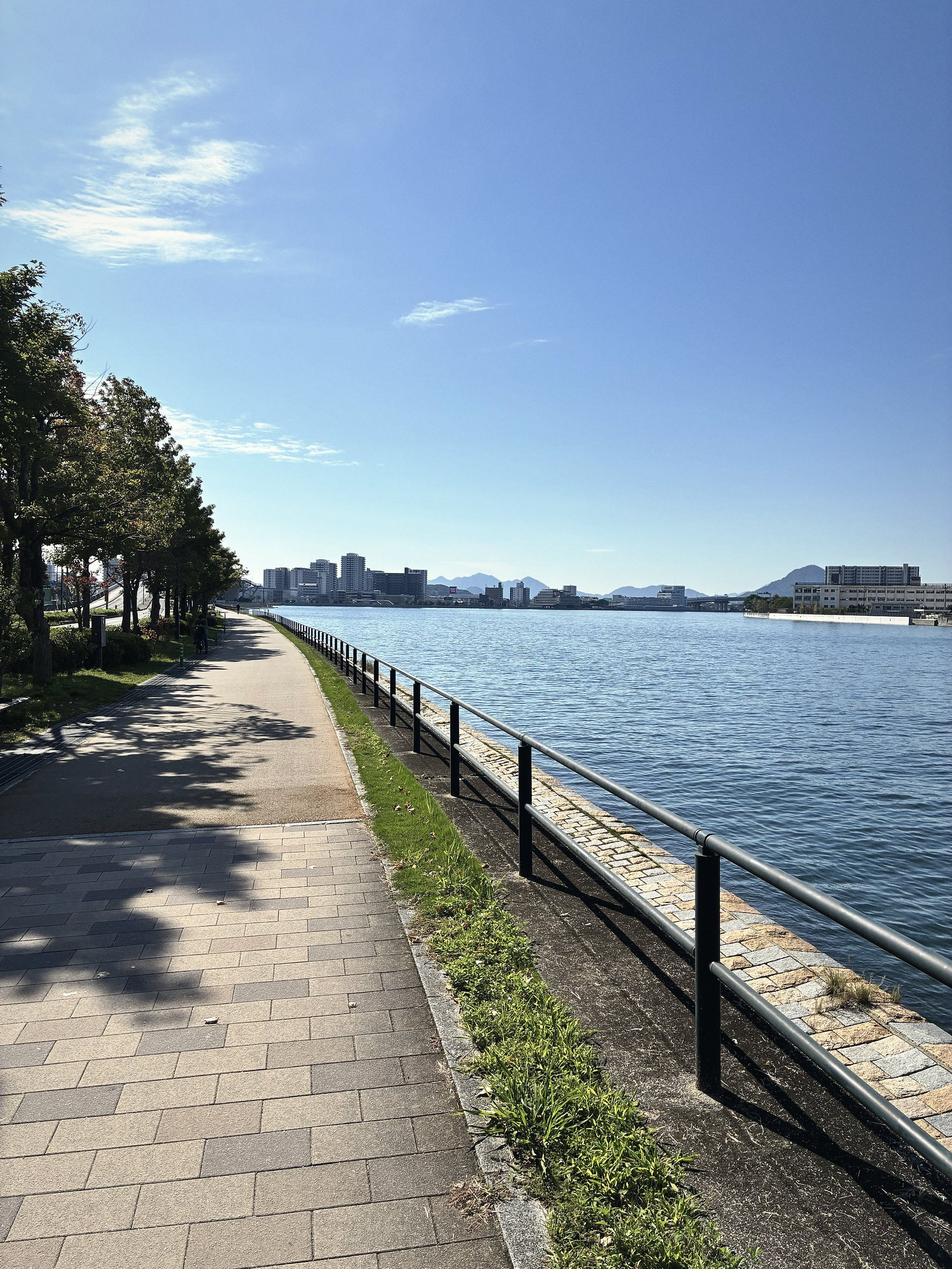
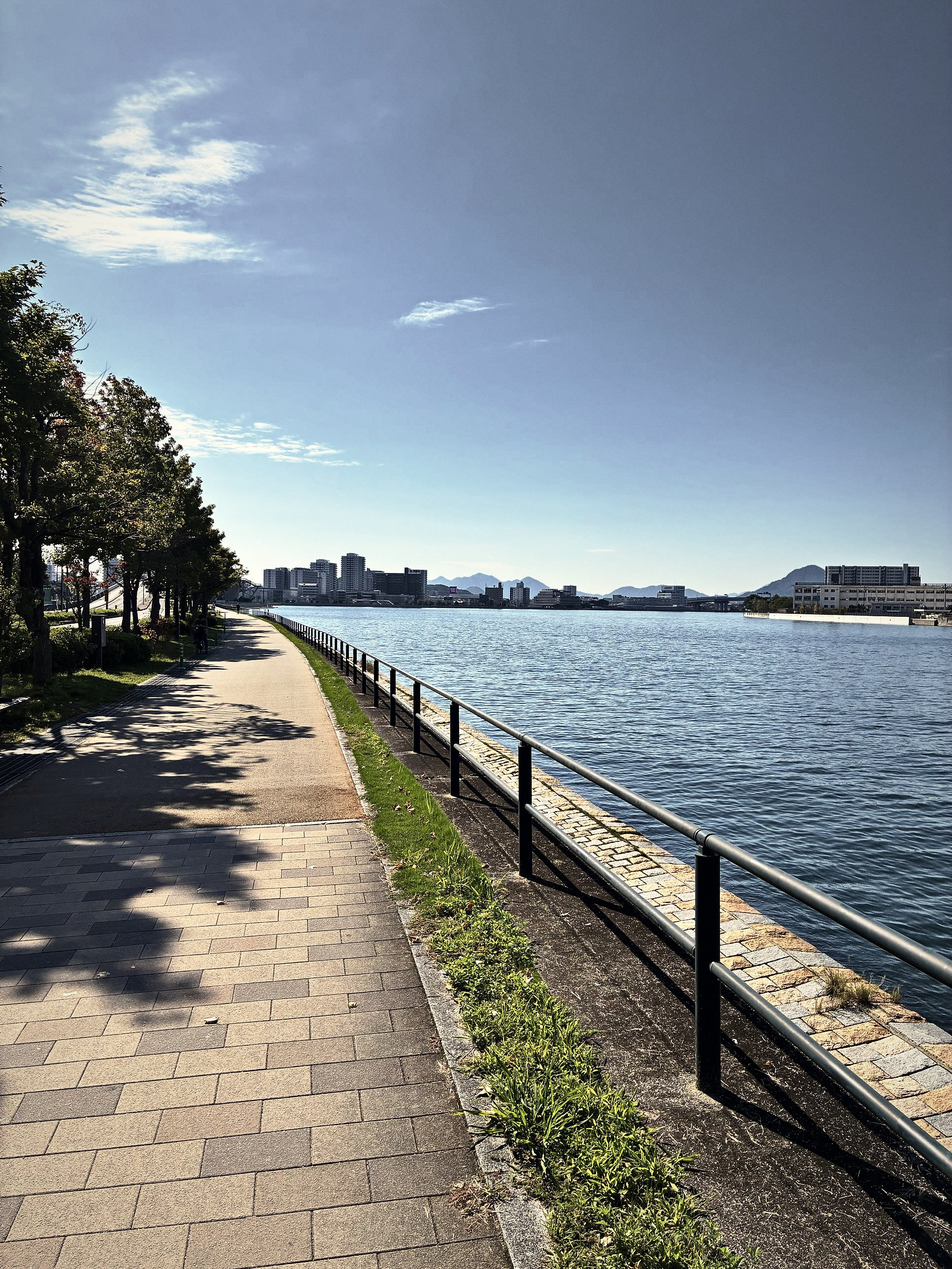
photos: pro-style per-photo grading for owner's photos; add 5 new photos
- scripts/photos/grade_pro.py: presets (day/golden/night/dusk) with sky
  tempering, highlight roll-off, clarity, split tone, vignette, grain; no metadata
- New: riverside sunlight (home feature), river evening (courses cover),
  night promenade (home interlude), Peace Memorial Museum at night,
  park at dusk (article heroes)

Claude-Session: https://claude.ai/code/session_0135SMCNB1MVxkJaGEdMERxV

diff --git a/content/photos.ts b/content/photos.ts
@@ -369,6 +369,66 @@ export const photos: Record<string, Photo> = {
     focus: "50% 65%",
     credit: { kind: "self", note: "運営者撮影" },
   },
+  "own-river-sunlight": {
+    id: "own-river-sunlight",
+    src: "/photos/own-river-sunlight.jpg",
+    width: 1932,
+    height: 2576,
+    alt: "木々のあいだから夕日が差し込み、川沿いの道に長い影が落ちている",
+    caption: "木漏れ日の川沿いの道",
+    place: "広島（運営者撮影）",
+    isHiroshima: true,
+    focus: "50% 60%",
+    credit: { kind: "self", note: "運営者撮影" },
+  },
+  "own-river-evening": {
+    id: "own-river-evening",
+    src: "/photos/own-river-evening.jpg",
+    width: 1836,
+    height: 2576,
+    alt: "夕方の光に照らされた川と、堤防の草の斜面。遠くに街並み",
+    caption: "夕方の川と堤防",
+    place: "広島（運営者撮影）",
+    isHiroshima: true,
+    focus: "50% 50%",
+    credit: { kind: "self", note: "運営者撮影" },
+  },
+  "own-park-evening": {
+    id: "own-park-evening",
+    src: "/photos/own-park-evening.jpg",
+    width: 1932,
+    height: 2576,
+    alt: "日暮れの空の下、明かりの灯る建物と木々に沿ってのびる遊歩道",
+    caption: "日暮れの遊歩道",
+    place: "広島（運営者撮影）",
+    isHiroshima: true,
+    focus: "40% 60%",
+    credit: { kind: "self", note: "運営者撮影" },
+  },
+  "own-park-night": {
+    id: "own-park-night",
+    src: "/photos/own-park-night.jpg",
+    width: 1512,
+    height: 2016,
+    alt: "夜、両側の木々がライトに照らされ、まっすぐ奥へ続く広い遊歩道",
+    caption: "夜の遊歩道",
+    place: "広島（運営者撮影）",
+    isHiroshima: true,
+    focus: "50% 60%",
+    credit: { kind: "self", note: "運営者撮影" },
+  },
+  "own-museum-night": {
+    id: "own-museum-night",
+    src: "/photos/own-museum-night.jpg",
+    width: 1512,
+    height: 2016,
+    alt: "夜空の下、柱に支えられて明かりの灯る平和記念資料館と、その前を歩く人",
+    caption: "夜の平和記念資料館",
+    place: "平和記念公園（広島市中区）",
+    isHiroshima: true,
+    focus: "55% 55%",
+    credit: { kind: "self", note: "運営者撮影" },
+  },
 };
 
 export function getPhoto(id: string | null | undefined): Photo | undefined {

diff --git a/app/page.tsx b/app/page.tsx
@@ -42,7 +42,7 @@ export default async function HomePage() {
   const [igPosts, amebloEntries] = await Promise.all([getInstagramPosts(), getAmebloEntries()]);
   const today = new Date().toISOString().slice(0, 10);
   const cover = getPhoto("own-seto-dusk");
-  const story = getPhoto("own-river-trees");
+  const story = getPhoto("own-river-sunlight");
   const city = getPhoto("own-dome-night");
   const everyday = getPhoto("own-seaside-path");
   const essay = getArticle(featuredEssay);
@@ -97,7 +97,7 @@ export default async function HomePage() {
           </p>
         </div>
         <Link href={essay ? `/articles/${essay.slug}` : "/essays"} className="m-feature" data-reveal>
-          <Photo id="own-river-trees" ratio="3/2" sizes="100vw" caption={false} className="m-feature__photo" />
+          <Photo id="own-river-sunlight" ratio="3/2" sizes="100vw" caption={false} className="m-feature__photo" />
           <span className="m-feature__text wrap">
             <span className="m-feature__title">{essay?.title ?? "走ること、生きること"}</span>
             <span className="m-feature__lede">{essay?.description}</span>
@@ -304,6 +304,12 @@ export default async function HomePage() {
             長く走るための記事 <Arrow />
           </Link>
         </p>
+      </section>
+
+      {/* ================================================ 間（写真だけ） */}
+      <section className="m-interlude" aria-label="写真：夜の遊歩道">
+        <Photo id="own-park-night" ratio="4/5" sizes="100vw" caption={false} className="m-interlude__photo" />
+        <Credit p={getPhoto("own-park-night")} className="wrap" />
       </section>
 
       {/* ================================================ 新着 */}

diff --git a/app/courses/page.tsx b/app/courses/page.tsx
@@ -14,10 +14,10 @@ export const metadata = buildMetadata({
   description:
     "太田川の川沿い、広島城、平和記念公園、宇品の海辺、牛田山、比治山。広島のランニングコースを、地図データから計算した距離と高低差、アクセスとともに紹介します。",
   path: cat.path,
-  photo: "ota-floodway-embankment",
+  photo: "own-river-evening",
 });
 
-const COVER = "ota-floodway-embankment";
+const COVER = "own-river-evening";
 
 export default function CoursesPage() {
   const list = publicCourses();

diff --git a/styles/magazine.css b/styles/magazine.css
@@ -969,3 +969,13 @@ h3,
   font-size: 0.6875rem;
   color: var(--ink-mute);
 }
+
+/* 写真だけの間（ページの呼吸） */
+.m-interlude {
+  margin-top: var(--section);
+}
+.m-interlude__photo .photo__frame {
+  aspect-ratio: auto !important;
+  height: min(92svh, 960px);
+  min-height: 480px;
+}

diff --git a/scripts/photos/grade_pro.py b/scripts/photos/grade_pro.py
@@ -1,0 +1,102 @@
+"""運営者の写真を、写真集のような仕上がりに整える（1枚ずつ調整できる版）
+
+使い方: python3 scripts/photos/grade_pro.py <入力> <出力> [プリセット] [切り抜き x0,y0,x1,y1（0〜1）]
+プリセット: day（日中の青空）/ golden（夕方・逆光）/ night（夜景）/ dusk（夜明け・曇り）
+
+ねらい
+- iPhone 特有の濃すぎる青空と、平たい明るさを抑える
+- 影に深さ、ハイライトにやわらかさ（フィルムのロールオフ）
+- 中くらいの細部を立たせる（クラリティ）
+- 色は少し控えめに、光にはわずかな温度
+- 周辺をわずかに落とし、細かな粒子
+- 位置情報などのメタデータは保存しない
+"""
+import sys
+import numpy as np
+from PIL import Image, ImageFilter, ImageOps
+
+PRESETS = {
+    #           gamma  shadow  hi_knee  sat   sky_desat sky_dark warm  clarity vignette grain
+    "day":    dict(gamma=1.13, shadow=0.00, knee=0.66, sat=0.80, sky=0.50, skyd=0.14, warm=0.030, clarity=0.32, vig=0.20, grain=0.011),
+    "golden": dict(gamma=1.08, shadow=0.01, knee=0.62, sat=0.88, sky=0.30, skyd=0.08, warm=0.055, clarity=0.30, vig=0.24, grain=0.012),
+    "night":  dict(gamma=1.08, shadow=0.018, knee=0.60, sat=0.86, sky=0.20, skyd=0.00, warm=0.020, clarity=0.24, vig=0.26, grain=0.015),
+    "dusk":   dict(gamma=1.10, shadow=0.010, knee=0.62, sat=0.84, sky=0.12, skyd=0.06, warm=0.040, clarity=0.26, vig=0.22, grain=0.013),
+}
+
+
+def rgb_to_hsv(a):
+    r, g, b = a[..., 0], a[..., 1], a[..., 2]
+    mx = a.max(-1); mn = a.min(-1); d = mx - mn + 1e-6
+    h = np.where(mx == r, (g - b) / d % 6, np.where(mx == g, (b - r) / d + 2, (r - g) / d + 4)) / 6
+    s = np.where(mx > 0, (mx - mn) / (mx + 1e-6), 0)
+    return h, s, mx
+
+
+def grade(im: Image.Image, p: dict) -> Image.Image:
+    a = np.asarray(im.convert("RGB")).astype(np.float32) / 255.0
+    h_, w_ = a.shape[:2]
+
+    # 1. ホワイトバランスをほんの少し中立へ（グレーワールドを30%だけ）
+    mean = a.reshape(-1, 3).mean(0)
+    a = a * (1 + 0.3 * (mean.mean() / (mean + 1e-6) - 1))
+
+    # 2. 濃すぎる青空を落ち着かせる（青い・明るい・上の方の画素ほど）
+    hue, sat, val = rgb_to_hsv(np.clip(a, 0, 1))
+    blue = np.clip(1 - np.abs(hue - 0.60) / 0.09, 0, 1) * np.clip((sat - 0.15) * 3, 0, 1)
+    top = np.clip(1.2 - np.linspace(0, 1, h_)[:, None] * 1.3, 0, 1)
+    m = (blue * (0.5 + 0.5 * top))[..., None]
+    lum = (0.2126 * a[..., 0] + 0.7152 * a[..., 1] + 0.0722 * a[..., 2])[..., None]
+    a = a * (1 - m) + (lum + (a - lum) * (1 - p["sky"])) * (1 - p["skyd"]) * m
+
+    # 3. トーン：中間調をやや沈め、影を少し持ち上げ、ハイライトをやわらかく
+    a = np.clip(a, 0, 1) ** p["gamma"]
+    a = p["shadow"] + a * (1 - p["shadow"])
+    k = p["knee"]
+    hi = a > k
+    a[hi] = k + (1 - k) * np.tanh((a[hi] - k) / (1 - k) * 1.2) / np.tanh(1.2)
+    a = a + 0.12 * (a - 0.5) * (1 - np.abs(2 * a - 1))  # ゆるやかなSカーブ
+
+    # 4. 色：全体を少し控えめに
+    lum = (0.2126 * a[..., 0] + 0.7152 * a[..., 1] + 0.0722 * a[..., 2])[..., None]
+    a = lum + (a - lum) * p["sat"]
+
+    # 5. 光の温度：ハイライトにわずかなぬくもり、影はわずかに冷たく
+    hiw = np.clip((lum - 0.5) * 2, 0, 1)
+    shw = np.clip(1 - lum * 2.2, 0, 1)
+    a[..., 0] += p["warm"] * hiw[..., 0] - 0.010 * shw[..., 0]
+    a[..., 1] += p["warm"] * 0.45 * hiw[..., 0]
+    a[..., 2] += -p["warm"] * 0.8 * hiw[..., 0] + 0.014 * shw[..., 0]
+    a = np.clip(a, 0, 1)
+
+    # 6. クラリティ：中くらいの細部を立たせる
+    img = Image.fromarray((a * 255).astype(np.uint8))
+    blur = np.asarray(img.filter(ImageFilter.GaussianBlur(radius=max(h_, w_) / 90))).astype(np.float32) / 255
+    a = np.clip(a + p["clarity"] * (a - blur) * (1 - np.abs(2 * lum - 1)), 0, 1)
+
+    # 7. 周辺減光
+    yy, xx = np.mgrid[0:h_, 0:w_]
+    r = np.sqrt(((xx - w_ / 2) / (w_ / 2)) ** 2 + ((yy - h_ / 2) / (h_ / 2)) ** 2)
+    a *= (1 - p["vig"] * np.clip(r - 0.5, 0, 1) ** 1.8)[..., None]
+
+    # 8. 粒子（輝度のみ）
+    g = np.random.default_rng(11).normal(0, p["grain"], (h_, w_)).astype(np.float32)
+    a = np.clip(a + g[..., None] * (1 - np.abs(lum - 0.5) * 1.3), 0, 1)
+
+    out = Image.fromarray((a * 255 + 0.5).astype(np.uint8))
+    return out.filter(ImageFilter.UnsharpMask(radius=1.0, percent=35, threshold=2))
+
+
+def main():
+    src, dst = sys.argv[1], sys.argv[2]
+    preset = sys.argv[3] if len(sys.argv) > 3 else "day"
+    im = ImageOps.exif_transpose(Image.open(src)).convert("RGB")
+    if len(sys.argv) > 4:
+        x0, y0, x1, y1 = map(float, sys.argv[4].split(","))
+        W, H = im.size
+        im = im.crop((int(x0 * W), int(y0 * H), int(x1 * W), int(y1 * H)))
+    # 保存時にメタデータ（位置情報を含む）は書き込まない
+    grade(im, PRESETS[preset]).save(dst, quality=86, optimize=True, progressive=True)
+
+
+if __name__ == "__main__":
+    main()

diff --git a/content/articles/essay-keep-going.md b/content/articles/essay-keep-going.md
@@ -7,7 +7,7 @@ tags: [エッセイ, 継続]
 status: published
 publishedAt: 2026-11-18
 updatedAt: 2026-11-18
-hero: kyobashi-river-inari
+hero: own-river-trees
 seasons: [spring, summer, autumn, winter]
 levels: [first, beginner, intermediate]
 related: [start-make-it-habit]

diff --git a/content/articles/hiroshima-where-to-start.md b/content/articles/hiroshima-where-to-start.md
@@ -7,7 +7,7 @@ tags: [広島, コース, 初心者]
 status: published
 publishedAt: 2026-11-18
 updatedAt: 2026-11-18
-hero: ota-river-shin-koi
+hero: own-museum-night
 seasons: [spring, summer, autumn, winter]
 levels: [first, beginner]
 related: [start-first-week]

diff --git a/content/articles/start-morning-or-night.md b/content/articles/start-morning-or-night.md
@@ -7,7 +7,7 @@ tags: [初心者, 習慣, 安全]
 status: published
 publishedAt: 2026-11-15
 updatedAt: 2026-11-18
-hero: motoyasu-river-peace-bridge
+hero: own-park-evening
 seasons: [autumn, winter]
 levels: [first, beginner]
 series: { id: start-guide, order: 6 }
